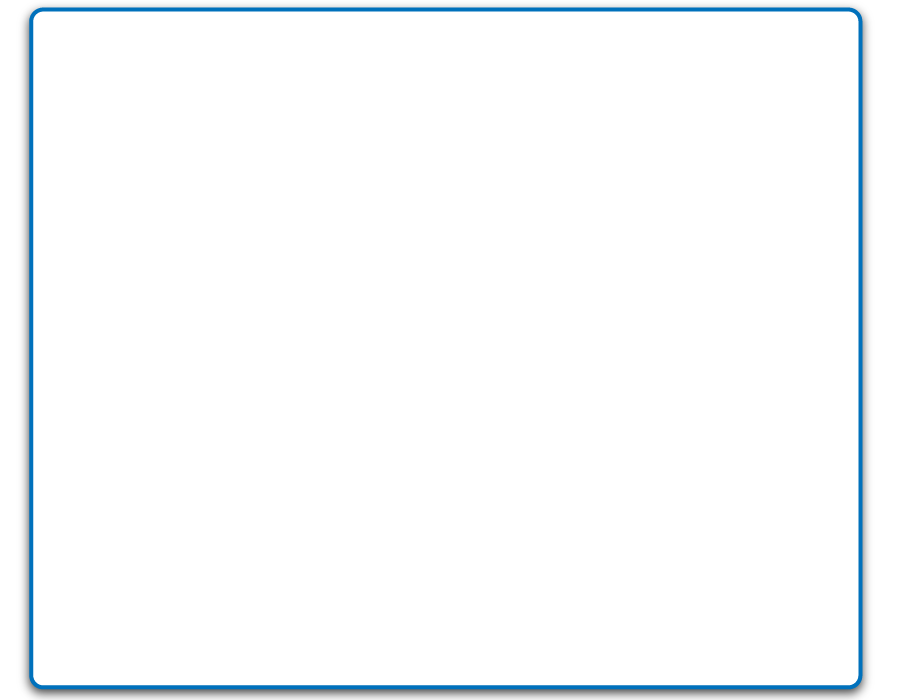
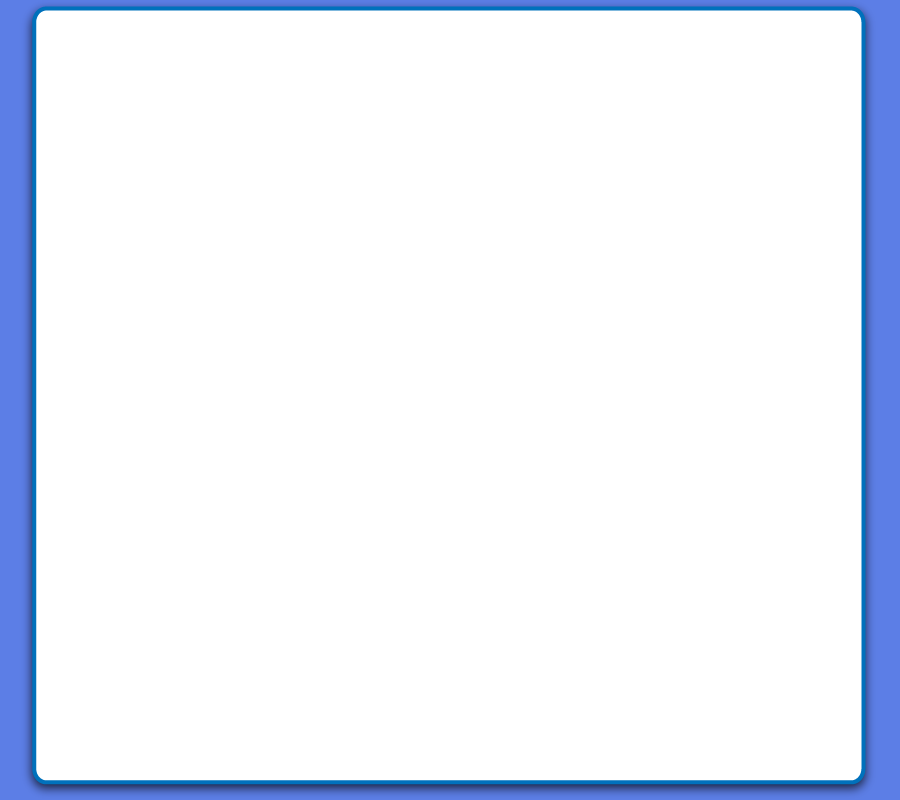
fixed the flash messages in IE and added some analytics support and best of all i added amazon support

Changed region(s): [[0.0, 0.0, 1.0, 1.0]]

diff --git a/public/stylesheets/style.css b/public/stylesheets/style.css
@@ -27,7 +27,6 @@ h3 a:hover {
 	color:green;
 	border-bottom:1px solid yellow;
 }
-
 #header {
 	position:absolute;
 	margin-top:0;
@@ -45,16 +44,15 @@ h3 a:hover {
 
 #session_bar {
 	width:300px;
-	height:100px;
+	height:90px;
 	float:right;
-	margin-top:15px;
+	margin-top:14px;
 	margin-right:6em;
 	padding-left:5px;
 	background-color:#2A211C;
 }
 #session_bar ul {
-	height:80px;
-	width:90%;
+	height:60%;
 	font-size:12pt;
 	list-style:none;
 	margin-top:5px;
@@ -93,14 +91,17 @@ h3 a:hover {
 	position:absolute;
 	background-image:url(/images/bookup_background.png);
 	background-repeat:no-repeat;
-	width:880px;
-	height:700px;
+	background-color:#fff;
+	width:900px;
+	height:800px;
 	margin-top:110px;
 	margin-left:10%;
 	margin-right:5%
 }
 #center {
-	position:absolute;
+	background-color:#fff;
+	width:800px;
+	height:600px;
 	margin-top:3em;
 	margin-left:3em;
 	margin-right:3em;
@@ -118,7 +119,6 @@ h3 a:hover {
 #average_book_price {
 	position:relative;
 	width:450px;
-	height:60px;
 	background:#3BE18D;
 	font-family:helvetica;
 	margin-left:auto;
@@ -130,15 +130,35 @@ h3 a:hover {
 		font-size:20pt;
 		margin:5px;
 }
-#notice {
-	width:450px;
-	height:50px;
+
+
+.formError {
+	padding:10px;
+	margin-left:0;
 	background:#C5656B;
-	font-family:helvetica;
+}
+#red_ex {
+	background-color:red;
+	float:left;
+}
+#flash_failure {
+	padding:4px;
 	margin-top:2em;
-	margin-left:auto;
-	margin-right:auto;
-	margin-bottom:1em;
-	padding:2px;
-	
+	margin-left:20%;
+	margin-right:20%;
+	background:#E57872;
+}
+#flash_success {
+	padding:4px;
+	margin-top:2em;
+	margin-left:20%;
+	margin-right:20%;
+	background:#ADE6A4;
+}
+#flash_notice {
+	padding:4px;
+	margin-top:2em;
+	margin-left:20%;
+	margin-right:20%;
+	background:#E2CB5D;
 }

diff --git a/public/javascripts/application.js b/public/javascripts/application.js
@@ -4,5 +4,8 @@ $(document).ready( function() {
 	$("#books_index_table").tablesorter({ widgets: ['zebra']});
 	$("#show_book_listings_table").tablesorter();
 	$("#average_book_price").corners('10px')
-	$("#notice").corners('10px')
+	$("#flash_notice").corners()
+	$("#flash_failure").corners()
+	$("#flash_success").corners()
+	$(".formError").corners()
 })//document

diff --git a/app/models/book.rb b/app/models/book.rb
@@ -1,9 +1,15 @@
 class Book < ActiveRecord::Base
   has_many :listings
   has_many :users, :through => :listings
+  has_many :active_listings, :class_name => "Listing", :conditions => { :market_status => 1 }
   validates_presence_of :isbn
   validates_uniqueness_of :isbn, :message => "this book already exists"
-
+  validate :valid_isbn
+  ####################
+  #valid_isbn
+  def valid_isbn
+    errors.add(:isbn, "This is not a valid ISBN.") unless ISBN_Tools.is_valid?(self.isbn)  
+  end#valid_isbn
   ####################
   #edition
   def edition
@@ -31,15 +37,19 @@ class Book < ActiveRecord::Base
   ####################
   #fetch_attrs_from_amazon()
   def fetch_attrs_from_amazon()
-    self.to_10!
-    isbn_number = ISBN_Tools.cleanup(self.isbn)
-    lookup = AmazonProducts::Lookup.new( isbn_number, 'ISBN')
-    result = lookup.execute
-    self.title      = result.title
-    self.edition    = result.edition
-    self.authors    = result.authors
-    self.list_price = result.list_price_usd
-    self.img_url    = result.medium_image.url
+    begin
+      self.to_10!
+      isbn_number = ISBN_Tools.cleanup(self.isbn)
+      lookup = AmazonProducts::Lookup.new( isbn_number, 'ISBN')
+      result = lookup.execute
+      self.title      = result.title
+      self.edition    = result.edition
+      self.authors    = result.authors
+      self.list_price = result.list_price_usd
+      self.img_url    = result.medium_image.url
+    rescue
+      false
+    end
   end#fetch_attrs_from_amazon()
   ####################
   # note that market_status == 1 => listing is available 

diff --git a/config/environment.rb b/config/environment.rb
@@ -17,17 +17,21 @@ Rails::Initializer.run do |config|
   }
 
     require 'isbn/tools'
-    config.gem "thoughtbot-factory_girl",
-               :lib    => "factory_girl",
-               :source => "http://gems.github.com",
-               :version => '1.2.0'
 
+    config.gem 'rubaidh-google_analytics', 
+              :lib => 'rubaidh/google_analytics', 
+              :source => 'http://gems.github.com'
+    config.gem "thoughtbot-factory_girl",
+              :lib    => "factory_girl",
+              :source => "http://gems.github.com",
+              :version => '1.2.0'
    config.gem "thoughtbot-clearance", 
-               :lib     => 'clearance', 
-               :source  => 'http://gems.github.com', 
-               :version => '0.5.3'
+              :lib     => 'clearance', 
+              :source  => 'http://gems.github.com', 
+              :version => '0.5.3'
 
 end
+Rubaidh::GoogleAnalytics.tracker_id = "UA-8299171-1"
 AmazonProducts.config_location = 'config/amazon.yml'
 ActiveSupport::CoreExtensions::Date::Conversions::DATE_FORMATS.merge!(:default => '%m/%d/%Y')
 ActiveSupport::CoreExtensions::Time::Conversions::DATE_FORMATS.merge!(:default => '%m/%d/%Y')

diff --git a/app/controllers/listings_controller.rb b/app/controllers/listings_controller.rb
@@ -28,6 +28,7 @@ class ListingsController < ApplicationController
     @listing = @user.listings.build( params[:listing] )
     @listing.book = @book
     if @listing.save
+      flash[:success] = "listing was successfully created"
       redirect_to @book
     else
       render :action => 'new'
@@ -37,11 +38,19 @@ class ListingsController < ApplicationController
   def edit
     @listing = Listing.find( params[:id] )
   end#edit
+
   def update
     @listing = Listing.find( params[:id] )
-    flash[:notice] = "listing was successfully updated"
-    redirect_to user_listings_url(@user) if @listing.update_attributes(params[:listing])
+    if @listing.update_attributes(params[:listing])
+      @listing.update_market_status( params[:listing][:market_status] )
+      flash[:success] = "listing was successfully updated"
+      redirect_to user_listings_url(@user)
+    else
+      render :action => 'edit'
+    end
   end#update
+
+
 protected 
   ####################
   #load_user

diff --git a/app/controllers/books_controller.rb b/app/controllers/books_controller.rb
@@ -14,13 +14,11 @@ class BooksController < ApplicationController
 
   def create
     @book = @user.books.build( params[:book] )
-    @book.fetch_attrs_from_amazon()
     respond_to do |format|
-      if @book.save
-        flash[:notice] = 'Book was successfully added to list'
+      if @book.fetch_attrs_from_amazon() && @book.save
+        flash[:success] = 'Book was successfully added to list'
         format.html { redirect_to books_path }
       else
-        flash[:notice] = 'Book was not added.'
         format.html { render :action => "new" }
       end
     end

diff --git a/app/helpers/application_helper.rb b/app/helpers/application_helper.rb
@@ -22,6 +22,15 @@ module ApplicationHelper
               'jquery.tablesorter.min.js',
                 'jrails']
   end#get_js
+
+  ####################
+  #scribble( attr )
+  def scribble( attr )
+   user =  attr.scan(/^([^@]+)(@.*)$/).flatten.first
+   domain = attr.scan(/^([^@]+)(@.*)$/).flatten.second
+   user[0..1] + "..." + user[-1..-1] + domain
+  end#scribble( attr )
+
   def clippy(text, bgcolor='#FFFFFF')
     html = <<-EOF
       <object classid="clsid:d27cdb6e-ae6d-11cf-96b8-444553540000"

diff --git a/app/models/listing.rb b/app/models/listing.rb
@@ -5,4 +5,17 @@ class Listing < ActiveRecord::Base
   validates_presence_of :price
   validates_numericality_of :price, :greater_than_or_equal_to => 0.01
   
+  ####################
+  #update_market_status( status )
+  def update_market_status( status )
+    case status
+      when 'available'
+        self.market_status = 1
+      when 'pending'
+        self.market_status = 0
+      when 'sold'
+        self.market_status = -1
+    end
+    self.save
+  end#update_market_status( status )
 end

diff --git a/vendor/gems/thoughtbot-clearance-0.5.3/lib/clearance/app/controllers/sessions_controller.rb b/vendor/gems/thoughtbot-clearance-0.5.3/lib/clearance/app/controllers/sessions_controller.rb
@@ -18,7 +18,7 @@ module Clearance
             @user = User.authenticate(params[:session][:email],
                                       params[:session][:password])
             if @user.nil?
-              flash.now[:notice] = "Bad email or password."
+              flash.now[:failure] = "Bad email or password."
               render :action => :new, :status => :unauthorized
             else
               if @user.email_confirmed?

diff --git a/app/controllers/application.rb b/app/controllers/application.rb
@@ -15,7 +15,7 @@ class ApplicationController < ActionController::Base
   # filter_parameter_logging :password
   
   ActionView::Base.field_error_proc = Proc.new do |html_tag, instance|
-    %(<div style="color:red">invalid</div>) + html_tag
+    %(<div class='red_ex'>) + html_tag + %(</div)
   end
 
 end

diff --git a/spec/factories/factories.rb b/spec/factories/factories.rb
@@ -6,7 +6,7 @@ end
 
 Factory.define :book do |b|
   b.title         { "Introduction to Logic" }
-  b.isbn          { Factory.next :isbn }
+  b.isbn          { '0131898345' }
   b.edition       { "12th" }
 end
 
